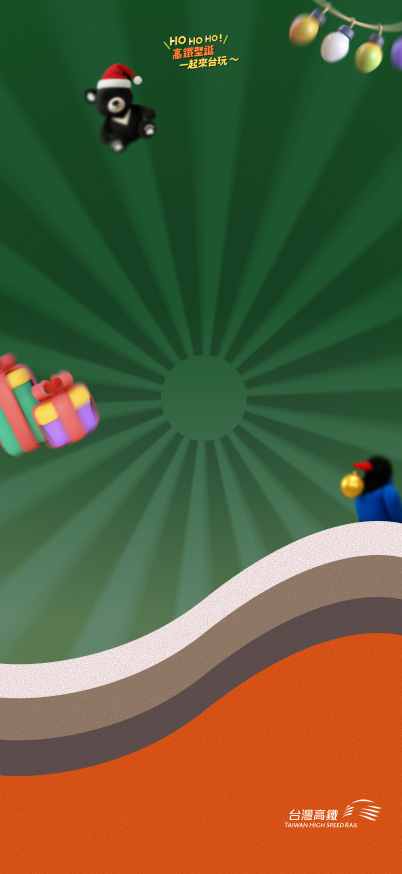
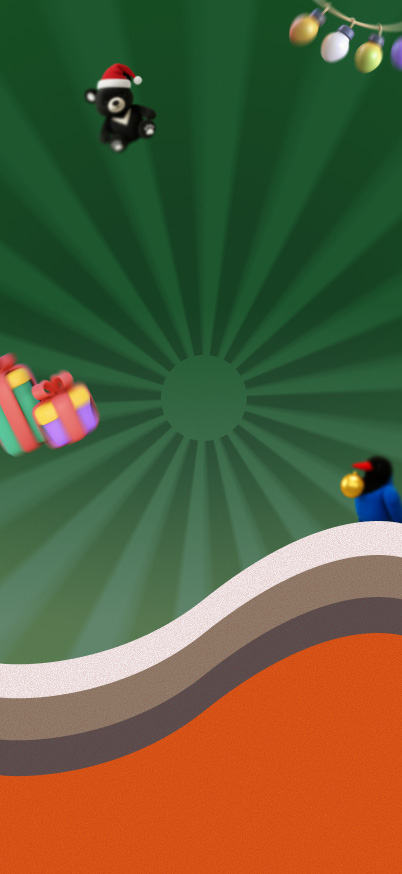
Change style v4

Changed region(s): [[0.4179, 0.0309, 0.5672, 0.0927], [0.7164, 0.8959, 0.9552, 0.9577]]

diff --git a/app/routes/selfie_page.tsx b/app/routes/selfie_page.tsx
@@ -25,17 +25,17 @@ export default function SelfiePage() {
     }
 
     return (
-        <div className="bg-[url('/images/07_dlresult_bg.jpg')] bg-size-[100%_100%] bg-no-repeat bg-center h-screen
+        <div className="bg-[url('/images/02_intro_bg.jpg')] bg-cover bg-center h-screen
         flex flex-col justify-center items-center py-8">
 
-        <img 
-            src={kv_title_v3} 
-            className="max-w-24"
-        />
-
-        <p className="text-white text-center text-2xl md:text-2xl font-bold py-4">
-            收藏你的照片吧!
-        </p>        
+        <section className="flex justify-center flex-col text-white text-center py-2">
+            <p className=" text-2xl md:text-2xl font-bold">
+                先下載圖片再分享
+            </p>        
+            <p className=" text-2xl md:text-2xl font-bold">
+                抽高鐵半價車票！
+            </p>        
+        </section>
 
         {selfie_source && (
 
@@ -46,14 +46,12 @@ export default function SelfiePage() {
             <img 
               src={selfie_source} 
               alt="Profile Clean" 
-              className="max-w-3xs md:max-w-sm h-80 object-cover rounded-3xl border-3 border-white shadow-lg"
+              className="max-w-3xs md:max-w-sm h-90 object-cover rounded-3xl border-3 border-white shadow-lg"
               onClick={save_image_to_device}
             />
-
-
           </div>
 
-        <span className="block text-white text-sm font-semibold">點擊可下載圖片</span>
+        <span className="block text-white text-sm font-semibold">長按圖片下載</span>
         </div>
         )}
 
@@ -61,7 +59,7 @@ export default function SelfiePage() {
         className="w-auto max-w-xs md:max-w-sm cursor-pointer hover:scale-105 transition-transform"
         src={share_and_lottery_img}></img>
 
-        <Link to='/'
+        <Link to='/ar_camera'
             className="w-auto max-w-xs md:max-w-sm cursor-pointer hover:scale-105 transition-transform"
         >
             <img src={play_again_btn_img}></img>

diff --git a/app/component/ar_camera/ARCameraMain.ts b/app/component/ar_camera/ARCameraMain.ts
@@ -64,16 +64,6 @@ export class ARCameraMain {
                 facingMode: 'environment' }
             });
 
-            // const videoTrack: any = stream.getVideoTracks()[0];
-            // const capabilities: any = videoTrack.getCapabilities();
-
-            // // Check if zoom is supported
-            // if (capabilities.zoom) {
-            //     await videoTrack.applyConstraints({
-            //         advanced: [{ zoom: capabilities.zoom.min }] // Use minimum zoom to zoom out
-            //     });
-            // }
-
             this._camera_video_dom.srcObject = stream;
             this._camera_video_dom.muted = true;
             this._camera_video_dom.playsInline = true;
@@ -148,22 +138,29 @@ export class ARCameraMain {
         sprite.y = ( (app.screen.height - sprite.getSize().height) / 2) + 30;
 
 
-        const myText = new Text({
+        const hint_text = new Text({
             text: '請對準聖誕樹',
             style: {
             fill: '#ffffff',
             fontSize: 12,
         }});
-        myText.resolution = 2;
-        myText.zIndex = sprite_config.z_index + 1;        
+        hint_text.resolution = 2;
+        hint_text.zIndex = sprite_config.z_index + 1;        
 
-        myText.x = (app.screen.width - myText.getSize().width) / 2;
-        myText.y = (sprite.y) -20;
+        hint_text.x = (app.screen.width - hint_text.getSize().width) / 2;
+        hint_text.y = (sprite.y) -20;
+
+        const logo_texture = await Assets.load('../images/right_corner.png');
+        const logo_sprite = new Sprite(logo_texture);
+        logo_sprite.zIndex = sprite_config.z_index + 1;
+        logo_sprite.x = app.screen.width - logo_sprite.getSize().width;
+        logo_sprite.y = 0;
 
         app.stage.addChild(sprite);
-        app.stage.addChild(myText);
+        app.stage.addChild(hint_text);
+        app.stage.addChild(logo_sprite);
 
-        this._tree_camera_text = myText;
+        this._tree_camera_text = hint_text;
         this._tree_camera_sprite = sprite;
         return sprite;
     }

diff --git a/app/routes/draw_gift.tsx b/app/routes/draw_gift.tsx
@@ -55,14 +55,14 @@ export default function DrawGiftPage() {
 
     return (
 <div 
-    className="bg-size-[100%_100%] bg-no-repeat bg-center h-screen flex flex-col justify-center items-center py-8 relative"
+    className="bg-cover bg-center h-screen flex flex-col justify-center items-center py-8 relative"
     style={{ backgroundImage: `url('${is_gift_given ? after_background : pre_background}')` }}
 >
 
     <section className='flex flex-col gap-1 h-20 relative top-6'>
       <p className="text-white text-center text-5xl font-bold px-4 whitespace-nowrap ">
-           山系森誕老公公
-      </p>        
+           / 山系森誕老公公 \
+      </p>
     </section>
 
     <img 

diff --git a/app/routes/home.tsx b/app/routes/home.tsx
@@ -5,8 +5,9 @@ import { Link } from "react-router";
 
 export default function Home() {
   return (
- <div className="bg-[url('/images/01_landing_bg.jpg')] bg-size-[100%_100%] bg-no-repeat w-screen h-screen flex flex-col justify-end items-center py-8">
-    {/* <img className="w-auto max-w-xs md:max-w-sm" src={santa_gif}></img> */}
+ <div className="bg-[url('/images/01_landing_bg.jpg')] bg-cover w-screen h-screen flex flex-col justify-end items-center py-8">
+    
+    <img className="w-32 absolute top-2 right-2" src={`/images/right_corner.png`}></img>
 
     <Link to='/intro_page' className='mb-12'>
         <img src={start_btn_img}

diff --git a/app/routes/intro_page.tsx b/app/routes/intro_page.tsx
@@ -5,14 +5,9 @@ import kv_title_v3 from '../assets/sprite/kv_title_v3.png'
 
 export default function IntroPage() {
     return (
-<div className="bg-[url('/images/02_intro_bg.jpg')] bg-size-[100%_100%] bg-no-repeat bg-center h-screen
+<div className="bg-[url('/images/02_intro_bg.jpg')] bg-cover bg-center h-screen
       relative flex flex-col justify-center items-center">
 
-      <img 
-        src={kv_title_v3}
-        className="mb-2" 
-        alt="Title"
-      />
 
       <img 
         src={label_png}
